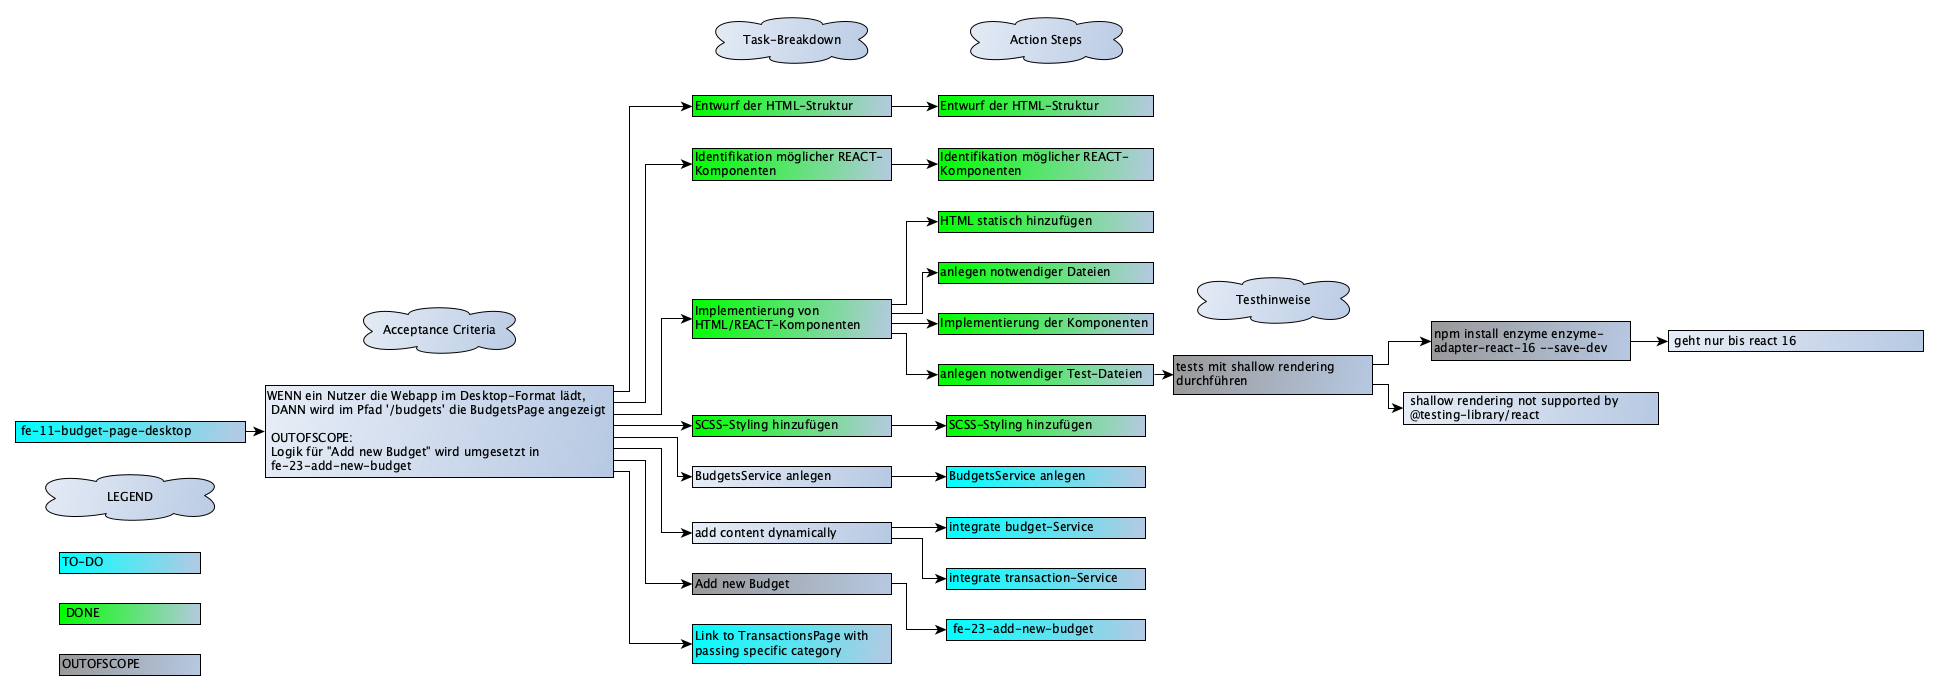
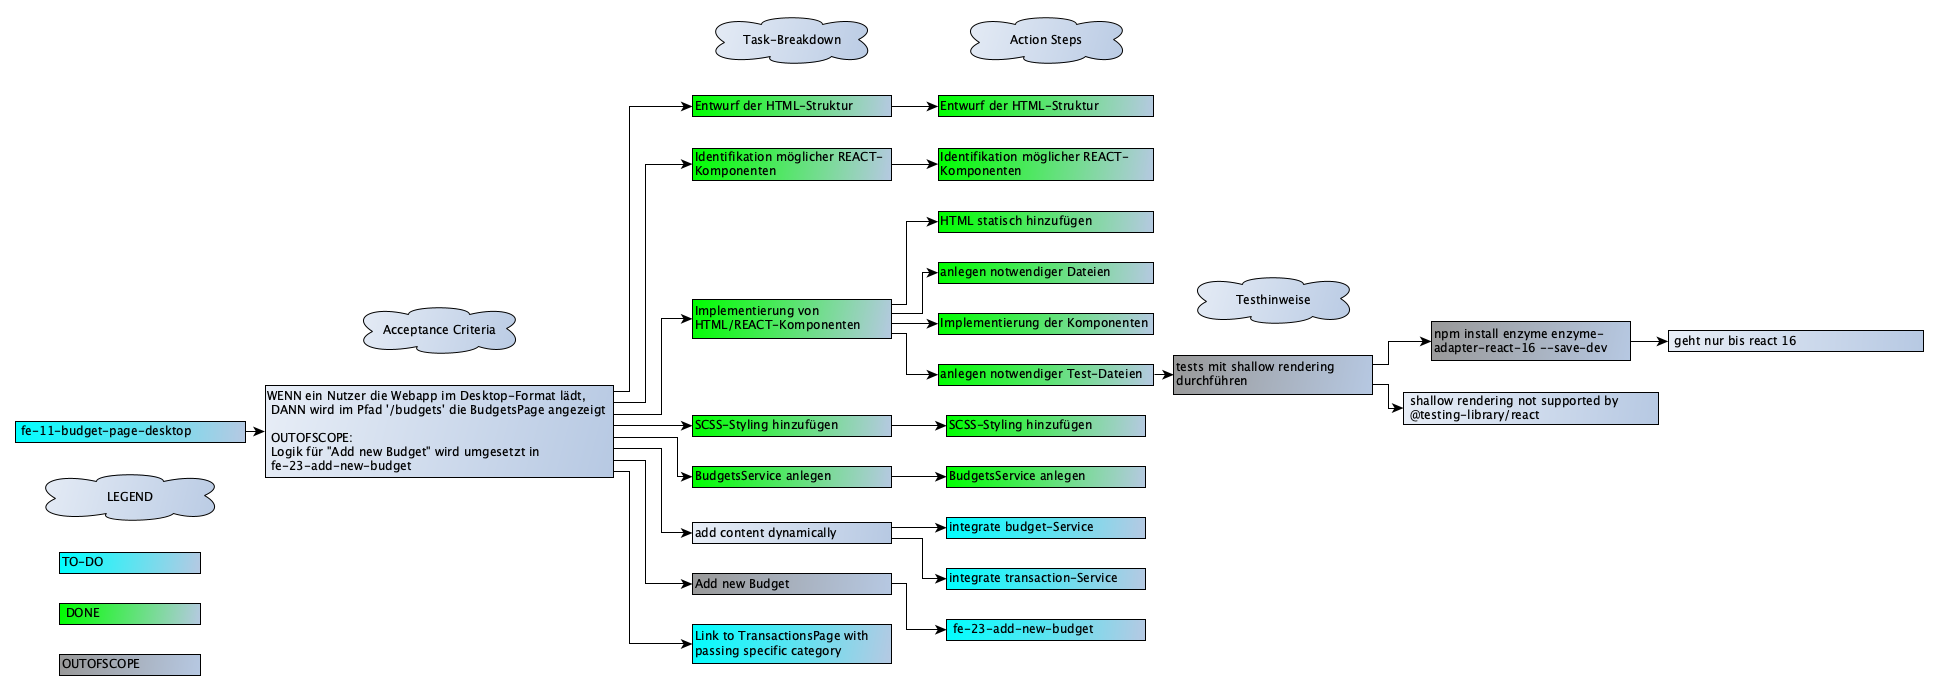
fe-11 add budget and transaction logic to BudgetsPage

Changed region(s): [[0.3397, 0.6696, 0.5867, 0.7304]]

diff --git a/frontend/src/Pages/BudgetsPage.tsx b/frontend/src/Pages/BudgetsPage.tsx
@@ -1,7 +1,6 @@
 import './BudgetsPage.scss';
 import { HeaderBar } from '../components/budgets/HeaderBar';
 import { BudgetsDiagramCard } from '../components/budgets/BudgetDiagrammCard/BudgetsDiagramCard';
-import { TransactionRowProps } from '../types/TransactionRowProps';
 import { BudgetCard } from '../components/budgets/BudgetCard/BudgetCard';
 import { getBudgets } from '../globals/services/BudgetService';
 import { EPBudget } from '../types/EPBudget';
@@ -9,110 +8,8 @@ import { EPTransaction } from '../types/EPTransaction';
 import { getTransactions } from '../globals/services/TransactionService';
 
 export function BudgetsPage() {
-  const budgetCardListEntertainmentTransactions: TransactionRowProps[] = [
-    {
-      name: 'James Thompson',
-      value: -5,
-      date: '11 Aug 2024',
-      imgSrc: './src/assets/images/avatars/james-thompson.jpg',
-    },
-    {
-      name: 'Pixel Playground',
-      value: -10,
-      date: '11 Aug 2024',
-      imgSrc: './src/assets/images/avatars/pixel-playground.jpg',
-    },
-    {
-      name: 'Rina Sato',
-      value: -10,
-      date: '13 Jul 2024',
-      imgSrc: './src/assets/images/avatars/rina-sato.jpg',
-    },
-  ];
-
-  const budgetCardListBillsTransactions: TransactionRowProps[] = [
-    {
-      name: 'Spark Electric Solutions',
-      value: -100,
-      date: '2 Aug 2024',
-      imgSrc: './src/assets/images/avatars/spark-electric-solutions.jpg',
-    },
-    {
-      name: 'Rina Sato',
-      value: -50,
-      date: '2 Aug 2024',
-      imgSrc: './src/assets/images/avatars/rina-sato.jpg',
-    },
-    {
-      name: 'Aqua Flow Utilities',
-      value: -100,
-      date: '30 Jul 2024',
-      imgSrc: './src/assets/images/avatars/aqua-flow-utilities.jpg',
-    },
-  ];
-
-  const budgetCardListDiningOutTransactions: TransactionRowProps[] = [
-    {
-      name: 'Savory Bites Bistro',
-      value: -55.5,
-      date: '19 Aug 2024',
-      imgSrc: './src/assets/images/avatars/savory-bites-bistro.jpg',
-    },
-    {
-      name: 'Ethan Clark',
-      value: -32.5,
-      date: '20 Aug 2024',
-      imgSrc: './src/assets/images/avatars/ethan-clark.jpg',
-    },
-    {
-      name: 'Ella Phillips',
-      value: -45,
-      date: '10 Aug 2024',
-      imgSrc: './src/assets/images/avatars/ella-phillips.jpg',
-    },
-  ];
-
-  const budgetCardListPersonalCareTransactions: TransactionRowProps[] = [
-    {
-      name: 'William Harris',
-      value: -10,
-      date: '5 Aug 2024',
-      imgSrc: './src/assets/images/avatars/william-harris.jpg',
-    },
-    {
-      name: 'Serenity Spa & Wellness',
-      value: -30,
-      date: '3 Aug 2024',
-      imgSrc: './src/assets/images/avatars/serenity-spa-and-wellness.jpg',
-    },
-    {
-      name: 'Serenity Spa & Wellness',
-      value: -30,
-      date: '3 Jul 2024',
-      imgSrc: './src/assets/images/avatars/serenity-spa-and-wellness.jpg',
-    },
-  ];
-
-  const budgetCardListLink = '../transactions';
-
   const budgets: EPBudget[] = getBudgets();
   const transactions: EPTransaction[] = getTransactions();
-
-  const budgetCardListEntertainmentBudgetCategory: string = 'Entertainment';
-  const budgetCardListEntertainmentBudgetMaximum: number = 50.0;
-  const budgetCardListEntertainmentBudgetColor: string = 'dark-green';
-
-  const budgetCardListBillsBudgetCategory: string = 'Bills';
-  const budgetCardListBillsBudgetMaximum: number = 750.0;
-  const budgetCardListBillsBudgetColor: string = 'light-blue';
-
-  const budgetCardListDiningOutBudgetCategory: string = 'Dining Out';
-  const budgetCardListDiningOutBudgetMaximum: number = 75.0;
-  const budgetCardListDiningOutBudgetColor: string = 'beige';
-
-  const budgetCardListPersonalCareBudgetCategory: string = 'Personal Care';
-  const budgetCardListPersonalCareBudgetMaximum: number = 100.0;
-  const budgetCardListPersonalCareBudgetColor: string = 'dark-grey';
 
   return (
     <>
@@ -123,34 +20,9 @@ export function BudgetsPage() {
             <BudgetsDiagramCard />
           </div>
           <div className="budgetsDetailsRight">
-            <BudgetCard
-              transactions={budgetCardListEntertainmentTransactions}
-              link={budgetCardListLink}
-              maximum={budgetCardListEntertainmentBudgetMaximum}
-              category={budgetCardListEntertainmentBudgetCategory}
-              color={budgetCardListEntertainmentBudgetColor}
-            />
-            <BudgetCard
-              transactions={budgetCardListBillsTransactions}
-              link={budgetCardListLink}
-              maximum={budgetCardListBillsBudgetMaximum}
-              category={budgetCardListBillsBudgetCategory}
-              color={budgetCardListBillsBudgetColor}
-            />
-            <BudgetCard
-              transactions={budgetCardListDiningOutTransactions}
-              link={budgetCardListLink}
-              maximum={budgetCardListDiningOutBudgetMaximum}
-              category={budgetCardListDiningOutBudgetCategory}
-              color={budgetCardListDiningOutBudgetColor}
-            />
-            <BudgetCard
-              transactions={budgetCardListPersonalCareTransactions}
-              link={budgetCardListLink}
-              maximum={budgetCardListPersonalCareBudgetMaximum}
-              category={budgetCardListPersonalCareBudgetCategory}
-              color={budgetCardListPersonalCareBudgetColor}
-            />
+            {budgets.map((budget: EPBudget, index: number) => (
+              <BudgetCard key={index} budget={budget} transactions={transactions} />
+            ))}
           </div>
         </div>
       </div>

diff --git a/frontend/src/components/budgets/BudgetCard/BudgetCard.tsx b/frontend/src/components/budgets/BudgetCard/BudgetCard.tsx
@@ -4,28 +4,42 @@ import { ValueBox } from '../../overview/ValueBox';
 import { BudgetCardList } from './BudgetCardList';
 import { BudgetCardProps } from '../../../types/BudgetCardProps';
 import React from 'react';
+import { EPTransaction } from '../../../types/EPTransaction';
+import PropTypes from 'prop-types';
 
-export function BudgetCard({ transactions, link, maximum, category, color }: BudgetCardProps) {
+BudgetCard.propTypes = {
+  budget: PropTypes.object.isRequired,
+  transactions: PropTypes.array.isRequired,
+};
+
+export function BudgetCard({ budget, transactions }: BudgetCardProps) {
+  const budgetTransactions: EPTransaction[] = transactions.filter((transaction: EPTransaction) => {
+    return transaction.categoryKey === budget.categoryKey;
+  });
+
+  const link = '../transactions';
+
   let spent: number = 0;
-  transactions.forEach((transaction) => {
-    spent = spent + transaction.value;
+  budgetTransactions.forEach((transaction: EPTransaction) => {
+    spent = spent + transaction.amount;
   });
   spent = spent * -1;
 
-  const remaining: number = maximum - spent;
+  const remaining: number = budget.maximum - spent;
+  const remainingPositive: number = remaining > 0 ? remaining : 0;
 
-  const spentPercent: number = (spent / maximum) * 100;
+  const spentPercent: number = (spent / budget.maximum) * 100;
 
-  const maximumFormatted = maximum.toFixed(2);
+  const maximumFormatted = budget.maximum.toFixed(2);
   return (
     <>
       <div className="budgetCard" data-testid="budget-card">
-        <BudgetCardHeader title={category} color={color} />
+        <BudgetCardHeader title={budget.category} color={budget.color} />
         <div className="budgetCardBar">
           <label className="budgetCardBarLabel">Maximum of ${maximumFormatted}</label>
           <div className="budgetCardBarMax">
             <div
-              className={`budgetCardBarCurrent ${color}`}
+              className={`budgetCardBarCurrent ${budget.color}`}
               style={
                 {
                   '--barCurrentWidthPercent': `${spentPercent}%`,
@@ -34,11 +48,11 @@ export function BudgetCard({ transactions, link, maximum, category, color }: Bud
             ></div>
           </div>
           <div className="budgetCardBarValues">
-            <ValueBox title="Spent" value={spent} color={color} />
-            <ValueBox title="Remaining" value={remaining} color="sepia" />
+            <ValueBox title="Spent" value={spent} color={budget.color} />
+            <ValueBox title="Remaining" value={remainingPositive} color="sepia" />
           </div>
         </div>
-        <BudgetCardList transactions={transactions} link={link} />
+        <BudgetCardList transactions={budgetTransactions} link={link} />
       </div>
     </>
   );

diff --git a/frontend/src/components/budgets/BudgetCard/BudgetCardList.tsx b/frontend/src/components/budgets/BudgetCard/BudgetCardList.tsx
@@ -4,6 +4,7 @@ import { TransactionRow } from '../../overview/transactions/TransactionRow';
 import { BudgetCardListProps } from '../../../types/BudgetCardListProps';
 import PropTypes from 'prop-types';
 import { TransactionRowProps } from '../../../types/TransactionRowProps';
+import { EPTransaction } from '../../../types/EPTransaction';
 
 BudgetCardList.propTypes = {
   transactions: PropTypes.array.isRequired,
@@ -11,10 +12,10 @@ BudgetCardList.propTypes = {
 };
 
 export function BudgetCardList({ transactions, link }: BudgetCardListProps) {
-  const latestTransactions: TransactionRowProps[] = [...transactions].sort(
+  const latestTransactions: EPTransaction[] = [...transactions].sort(
     (a, b) => new Date(b.date).getTime() - new Date(a.date).getTime()
   );
-  const renderedTransactions: TransactionRowProps[] = latestTransactions.slice(0, 3);
+  const renderedTransactions: EPTransaction[] = latestTransactions.slice(0, 3);
   return (
     <>
       <div className="budgetCardList" data-testid="budget-card-list">
@@ -38,15 +39,15 @@ export function BudgetCardList({ transactions, link }: BudgetCardListProps) {
           </Link>
         </div>
         <div className="budgetCardListTransactions">
-          {renderedTransactions.map((transaction: TransactionRowProps, index: number) => (
+          {renderedTransactions.map((transaction: EPTransaction, index: number) => (
             <div key={index}>
               <TransactionRow
                 name={transaction.name}
-                value={transaction.value}
+                value={transaction.amount}
                 date={transaction.date}
-                imgSrc={transaction.imgSrc}
+                imgSrc={transaction.avatar}
               />
-              {index < transactions.length - 1 && <hr className="budgetCardListLine" />}
+              {index < renderedTransactions.length - 1 && <hr className="budgetCardListLine" />}
             </div>
           ))}
         </div>

diff --git a/frontend/src/components/budgets/BudgetCard/BudgetCard.spec.tsx b/frontend/src/components/budgets/BudgetCard/BudgetCard.spec.tsx
@@ -168,6 +168,28 @@ describe('BudgetCard', () => {
     });
   });
 
+  it('resets negative remaining to 0', () => {
+    const propsWithOvermaxedSpending = {
+      ...testProps,
+      maximum: 5,
+    };
+    render(
+      <MemoryRouter>
+        <BudgetCard {...propsWithOvermaxedSpending} />
+      </MemoryRouter>
+    );
+
+    const components = screen.getAllByTestId('value-box');
+
+    components.forEach((component) => {
+      const title = component.querySelector('.valueBoxContentTitle')!.textContent;
+      if (title === 'Remaining') {
+        const value = component.querySelector('.valueBoxContentValue')!.textContent;
+        expect(value).toEqual('$0');
+      }
+    });
+  });
+
   it('renders component BudgetCardList', () => {
     render(
       <MemoryRouter>

diff --git a/frontend/src/components/overview/ValueBox.tsx b/frontend/src/components/overview/ValueBox.tsx
@@ -9,13 +9,14 @@ ValueBox.propTypes = {
 };
 
 export function ValueBox({ title, value, color }: ValueBoxProps) {
+  const valueFormatted = value.toFixed(2);
   return (
     <>
       <div className="valueBox" data-testid="value-box">
         <div className={`valueBoxBorder ${color}`}></div>
         <div className="valueBoxContent">
           <label className="valueBoxContentTitle">{title}</label>
-          <label className="valueBoxContentValue">${value}</label>
+          <label className="valueBoxContentValue">${valueFormatted}</label>
         </div>
       </div>
     </>

diff --git a/frontend/src/Types/BudgetCardProps.ts b/frontend/src/Types/BudgetCardProps.ts
@@ -1,9 +1,7 @@
-import { TransactionRowProps } from './TransactionRowProps';
+import { EPTransaction } from './EPTransaction';
+import { EPBudget } from './EPBudget';
 
 export interface BudgetCardProps {
-  transactions: TransactionRowProps[];
-  link: string;
-  maximum: number;
-  category: string;
-  color: string;
+  budget: EPBudget;
+  transactions: EPTransaction[];
 }

diff --git a/frontend/src/Types/BudgetCardListProps.ts b/frontend/src/Types/BudgetCardListProps.ts
@@ -1,6 +1,6 @@
-import { TransactionRowProps } from './TransactionRowProps';
+import { EPTransaction } from './EPTransaction';
 
 export interface BudgetCardListProps {
-  transactions: TransactionRowProps[];
+  transactions: EPTransaction[];
   link: string;
 }
